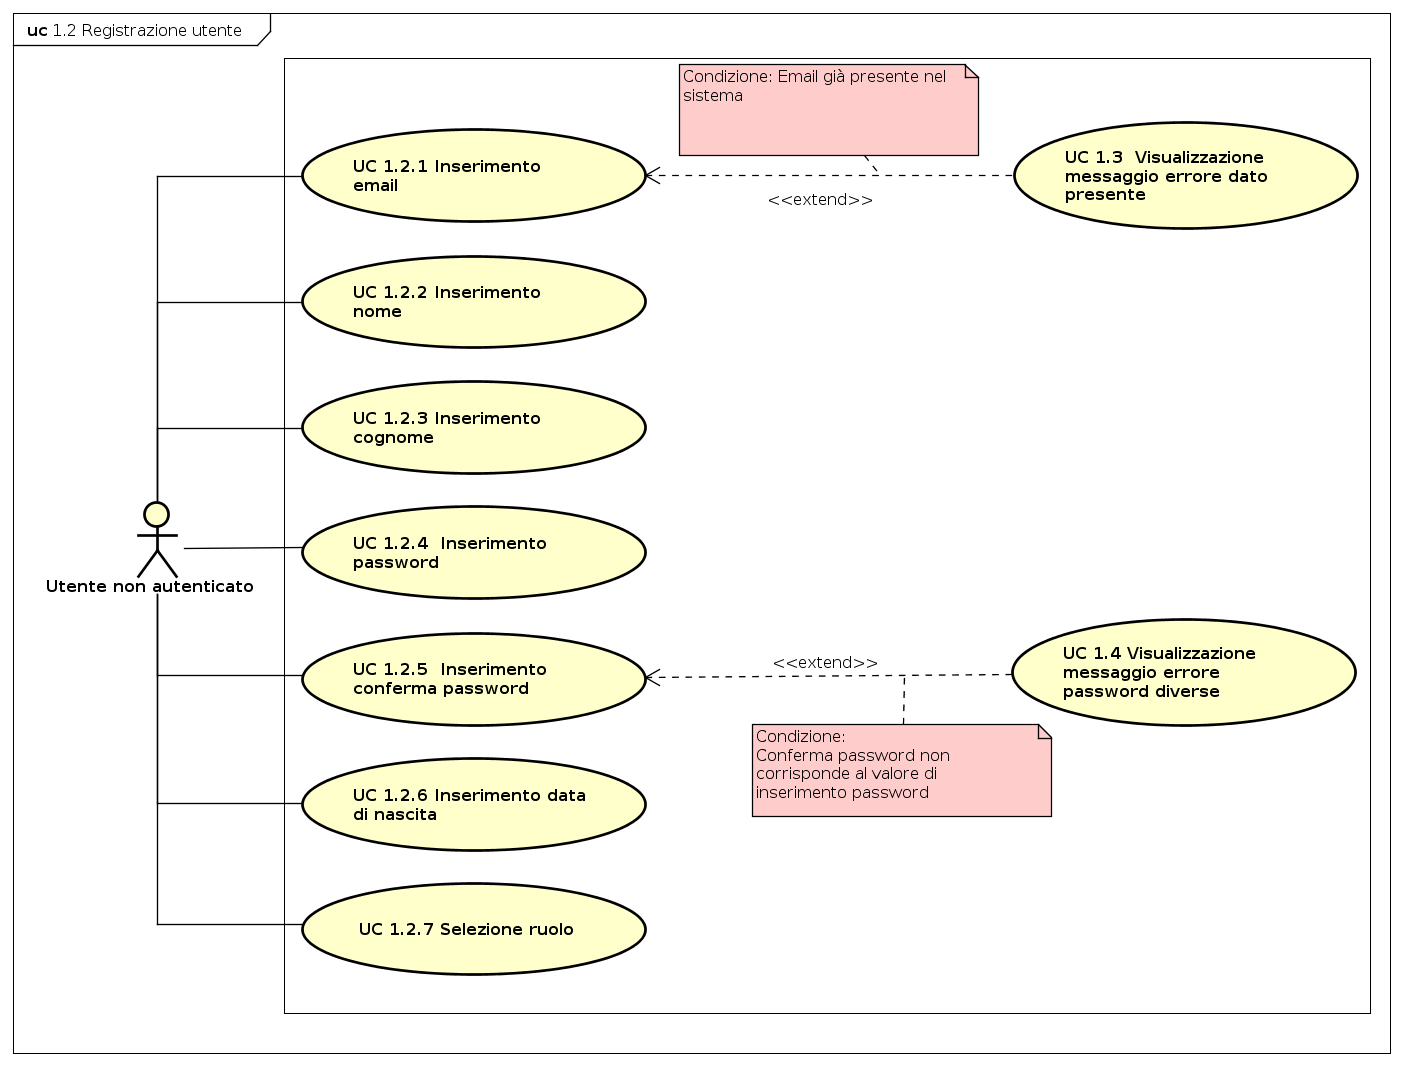
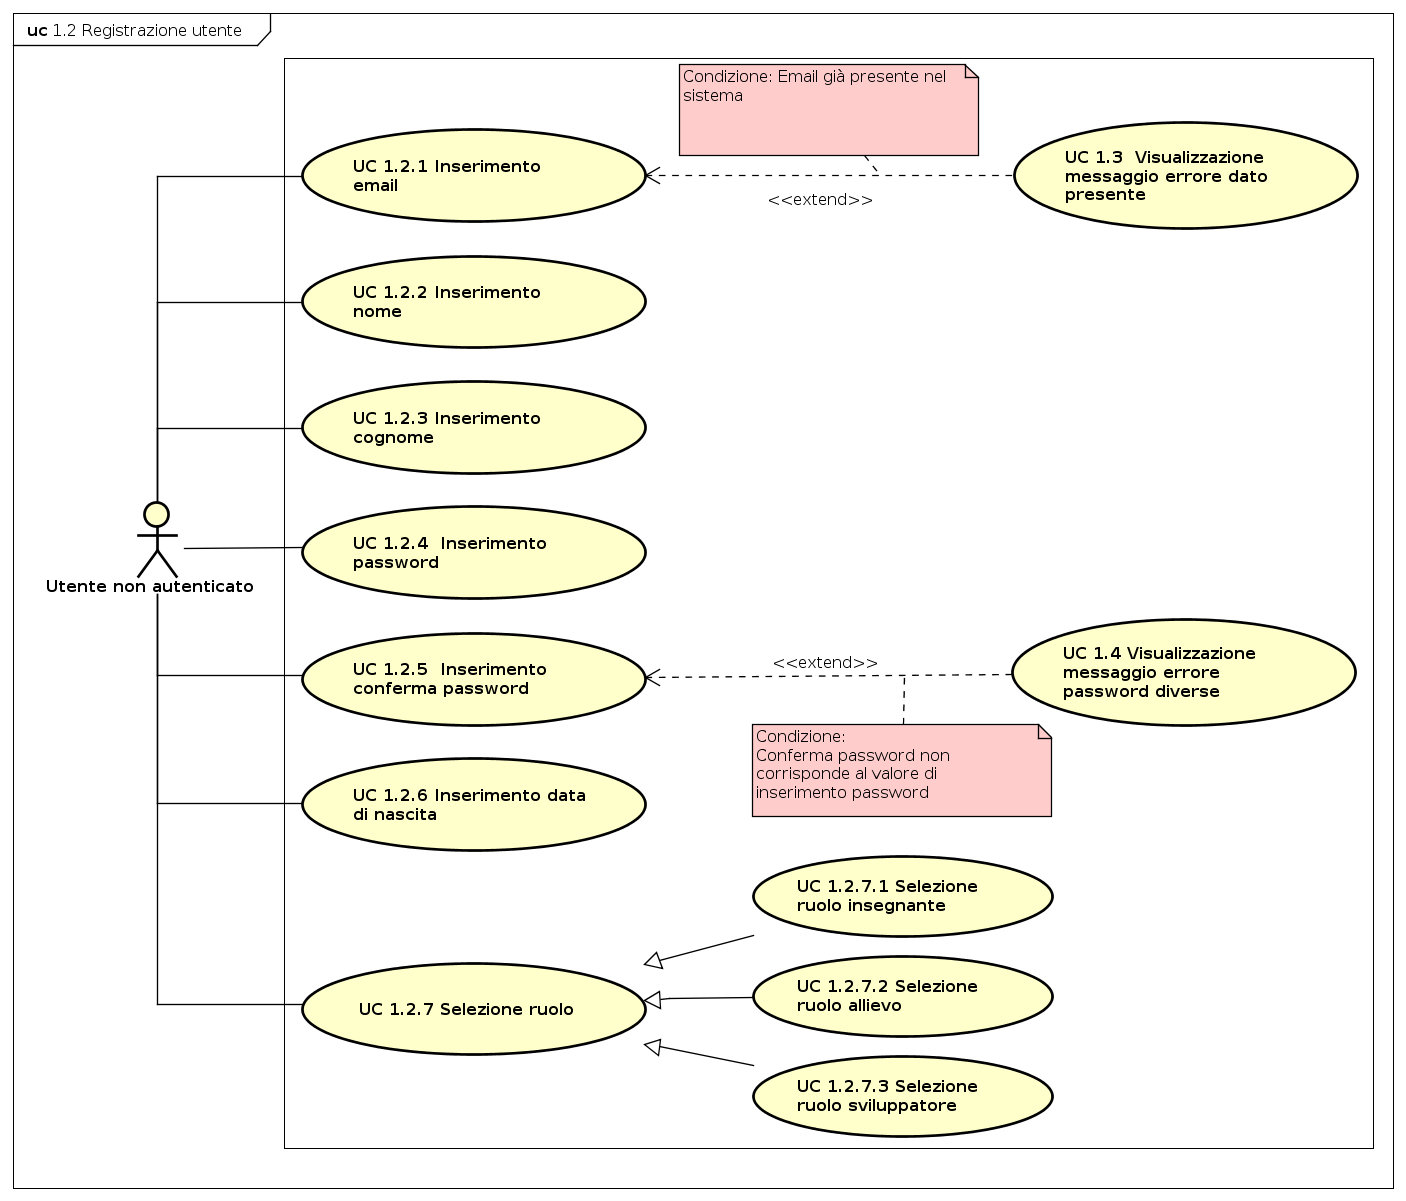
Aggiunta Ereditarietà UC 1.2.7

diff --git a/RQ/Analisi_dei_requisiti/sez/utenteGenerico.tex b/RQ/Analisi_dei_requisiti/sez/utenteGenerico.tex
@@ -157,16 +157,39 @@
 	\item[•]\textbf{Precondizione}: l'utente non è registrato e il ruolo non è definito;
 	\item[•]\textbf{Postcondizione}: l'utente ha inserito il ruolo desiderato;
 	\item[•]\textbf{Flusso degli eventi}: l'utente non registrato seleziona la scelta del ruolo tra: allievo, insegnante e sviluppatore.
+	\item[•]\textbf{Generalizzazioni}: 
+	\begin{enumerate}
+		\item UC 1.2.7.1 - Selezione ruolo insegnante;
+		\item UC 1.2.7.2 - Selezione ruolo allievo;
+		\item UC 1.2.7.3 - Selezione ruolo sviluppatore.
+	\end{enumerate}
 \end{itemize}
 
-\subsubsection{UC 1.2.7 - Selezione lingua interfaccia}
+\subsubsection{UC 1.2.7.1 - Selezione ruolo insegnante}
 \begin{itemize}
 	\item[•]\textbf{Attori}: Utente non registrato;
-	\item[•]\textbf{Descrizione}: l'utente seleziona la lingua che verrà utilizzata all'interno dell'applicativo;
-	\item[•]\textbf{Precondizione}: l'utente non è registrato e la lingua ha un valore di default;
-	\item[•]\textbf{Postcondizione}: l'utente ha selezionato la lingua desiderata;
-	\item[•]\textbf{Flusso degli eventi}: l'utente non registrato seleziona la lingua desiderata da un elenco predefinito.
+	\item[•]\textbf{Descrizione}: l'utente seleziona il ruolo insegnante per registrarsi con tale ruolo all'interno dell'applicativo;
+	\item[•]\textbf{Precondizione}: l'utente non è registrato e il ruolo non è selezionato;
+	\item[•]\textbf{Postcondizione}: l'utente ha selezionato il ruolo insegnante;
+	\item[•]\textbf{Flusso degli eventi}: l'utente non registrato seleziona il ruolo insegnante da un elenco predefinito.
 \end{itemize}
+\subsubsection{UC 1.2.7.2 - Selezione ruolo allievo}
+\begin{itemize}
+	\item[•]\textbf{Attori}: Utente non registrato;
+	\item[•]\textbf{Descrizione}: l'utente seleziona il ruolo allievo per registrarsi con tale ruolo all'interno dell'applicativo;
+	\item[•]\textbf{Precondizione}: l'utente non è registrato e il ruolo non è selezionato;
+	\item[•]\textbf{Postcondizione}: l'utente ha selezionato il ruolo allievo;
+	\item[•]\textbf{Flusso degli eventi}: l'utente non registrato seleziona il ruolo allievo da un elenco predefinito.
+\end{itemize}
+\subsubsection{UC 1.2.7.3 - Selezione ruolo sviluppatore}
+\begin{itemize}
+	\item[•]\textbf{Attori}: Utente non registrato;
+	\item[•]\textbf{Descrizione}: l'utente seleziona il ruolo sviluppatore per registrarsi con tale ruolo all'interno dell'applicativo;
+	\item[•]\textbf{Precondizione}: l'utente non è registrato e il ruolo non è selezionato;
+	\item[•]\textbf{Postcondizione}: l'utente ha selezionato il ruolo sviluppatore;
+	\item[•]\textbf{Flusso degli eventi}: l'utente non registrato seleziona il ruolo sviluppatore da un elenco predefinito.
+\end{itemize}
+
 
 \subsubsection{UC 1.3 - Visualizzazione messaggio errore dato presente}
 \begin{itemize}
